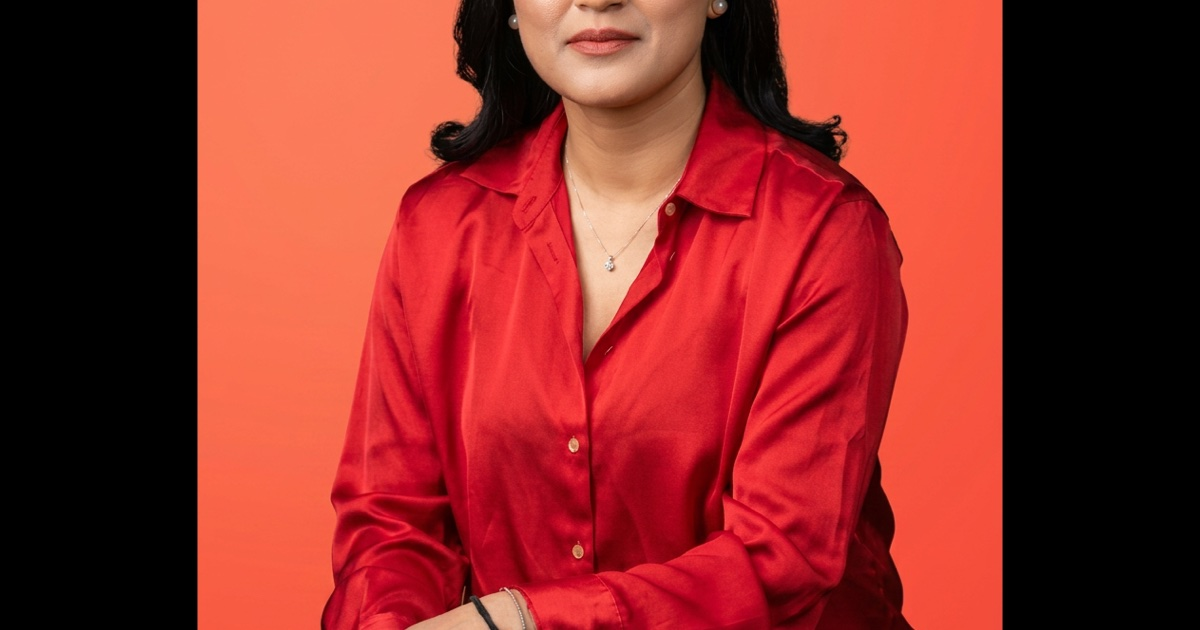
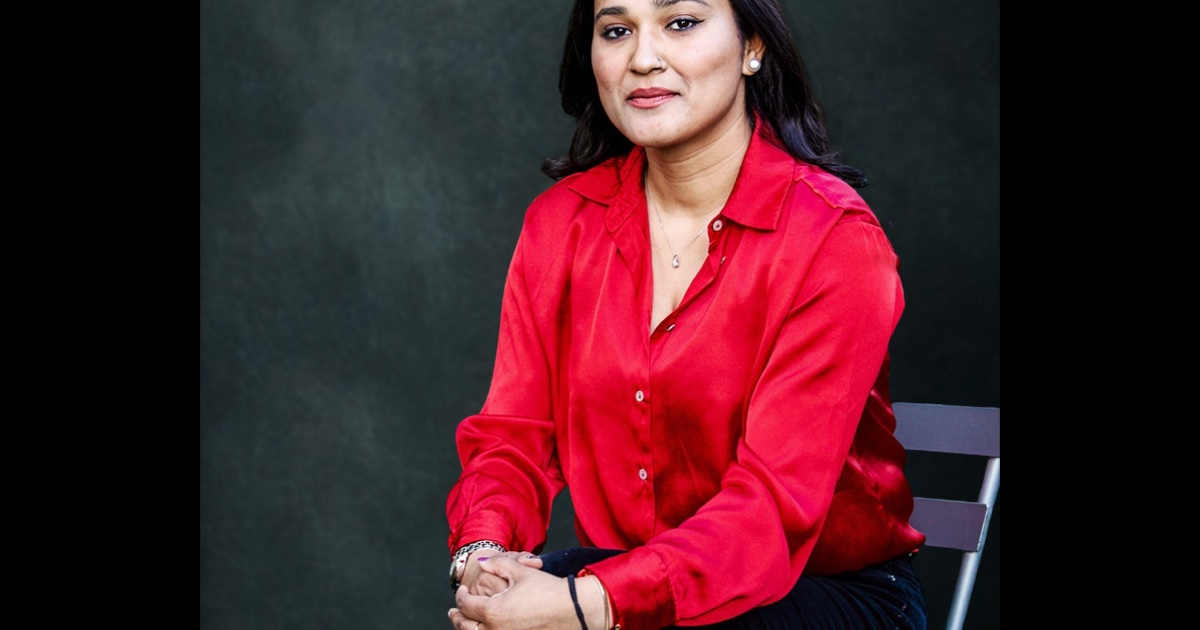
Swap to refined portrait (dark green backdrop)
Replace the orange-background portrait with the dark green / charcoal
backdrop session — calmer, more executive, better fit for the
cream/serif/emerald palette. Updates both /noopur.jpg (About) and
/og-image.jpg (social share). Adjust About <img> width/height to the
new intrinsic dimensions (853x1280) to keep layout shift at zero.

diff --git a/src/pages/About.tsx b/src/pages/About.tsx
@@ -155,8 +155,8 @@ const About: React.FC = () => {
                   alt="Portrait of Noopur Trivedi"
                   loading="eager"
                   decoding="async"
-                  width={848}
-                  height={1264}
+                  width={853}
+                  height={1280}
                   className="w-full h-auto block aspect-[2/3] object-cover"
                 />
                 <figcaption className="absolute bottom-0 left-0 right-0 px-5 py-4 bg-gradient-to-t from-canvas/95 via-canvas/70 to-transparent">
